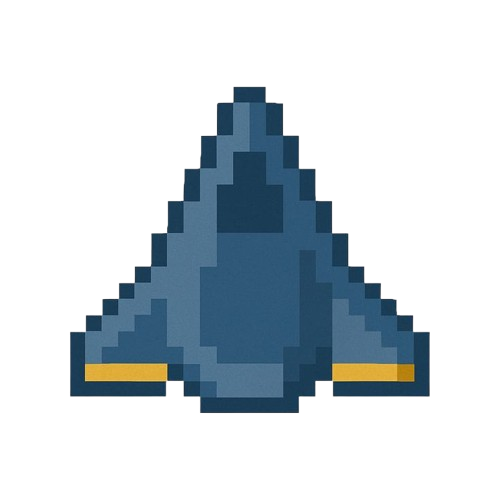
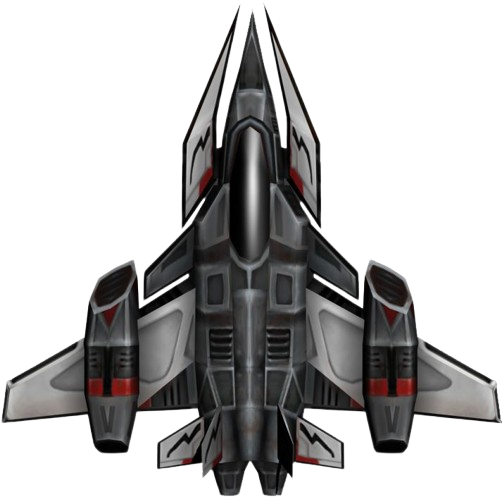
atualizando

diff --git a/GalaxyStorm.py b/GalaxyStorm.py
@@ -8,7 +8,7 @@ pygame.mixer.init()
 LARGURA = 800
 ALTURA = 600
 tela = pygame.display.set_mode((LARGURA, ALTURA))
-pygame.display.set_caption("Nave Retrô")
+pygame.display.set_caption("Galaxy Storm")
 
 clock = pygame.time.Clock()
 
@@ -19,6 +19,8 @@ except:
     som_tiro = None
 
 # Imagens
+logo = pygame.image.load("logo.png").convert_alpha()
+logo = pygame.transform.scale(logo, (300, 400))
 nave_img = pygame.image.load("nave.png").convert_alpha()
 nave_img = pygame.transform.scale(nave_img, (64, 64))
 
@@ -118,14 +120,9 @@ while rodando:
     if estado == MENU:
 
         tela.fill((0, 0, 20))
-
-        titulo = fonte_grande.render("NAVE RETRO",True,(255, 255, 255))
-
         iniciar = fonte.render("Pressione ESPACO para jogar",True,(255, 255, 255))
-
-        tela.blit(titulo,(LARGURA // 2 - titulo.get_width() // 2,200))
-
-        tela.blit(iniciar,(LARGURA // 2 - iniciar.get_width() // 2,320))
+        tela.blit(logo,(LARGURA // 2 - logo.get_width() // 2, 90))
+        tela.blit(iniciar,(LARGURA // 2 - iniciar.get_width() // 2,440))
 
     # JOGO
     elif estado == JOGANDO: